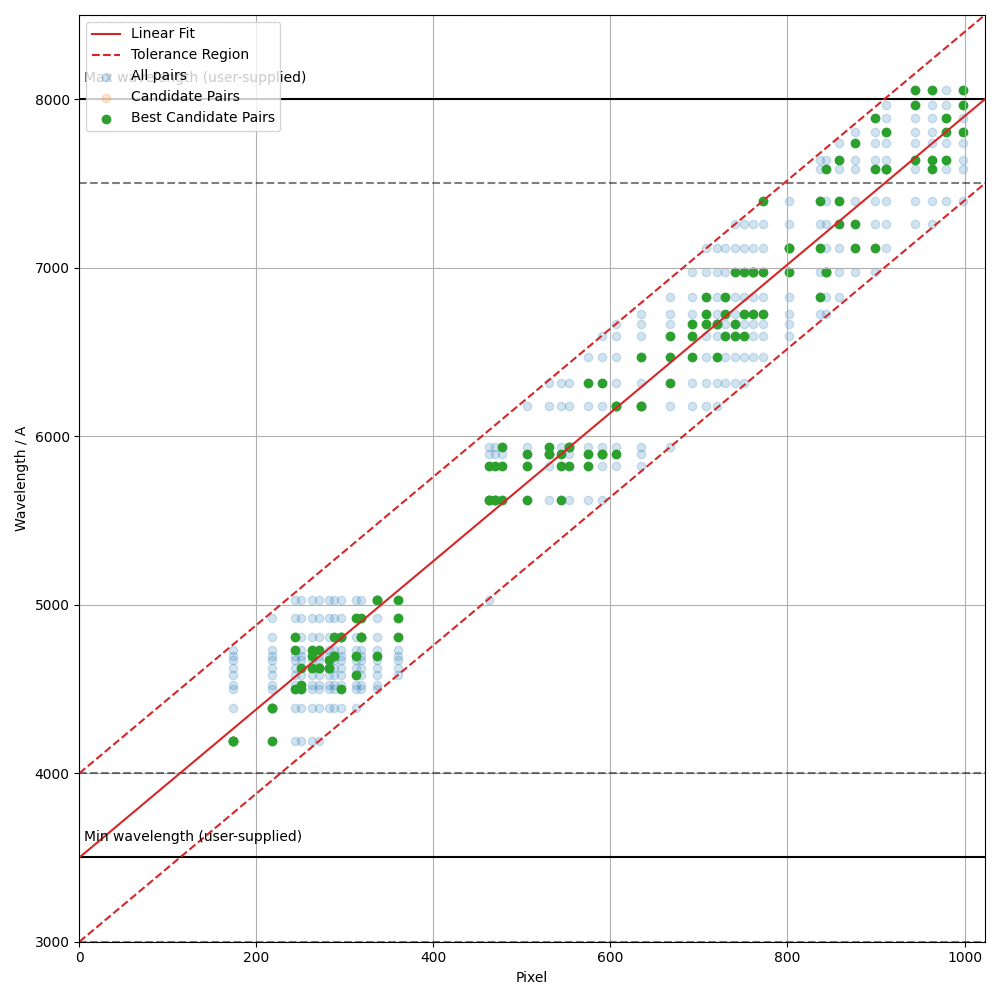
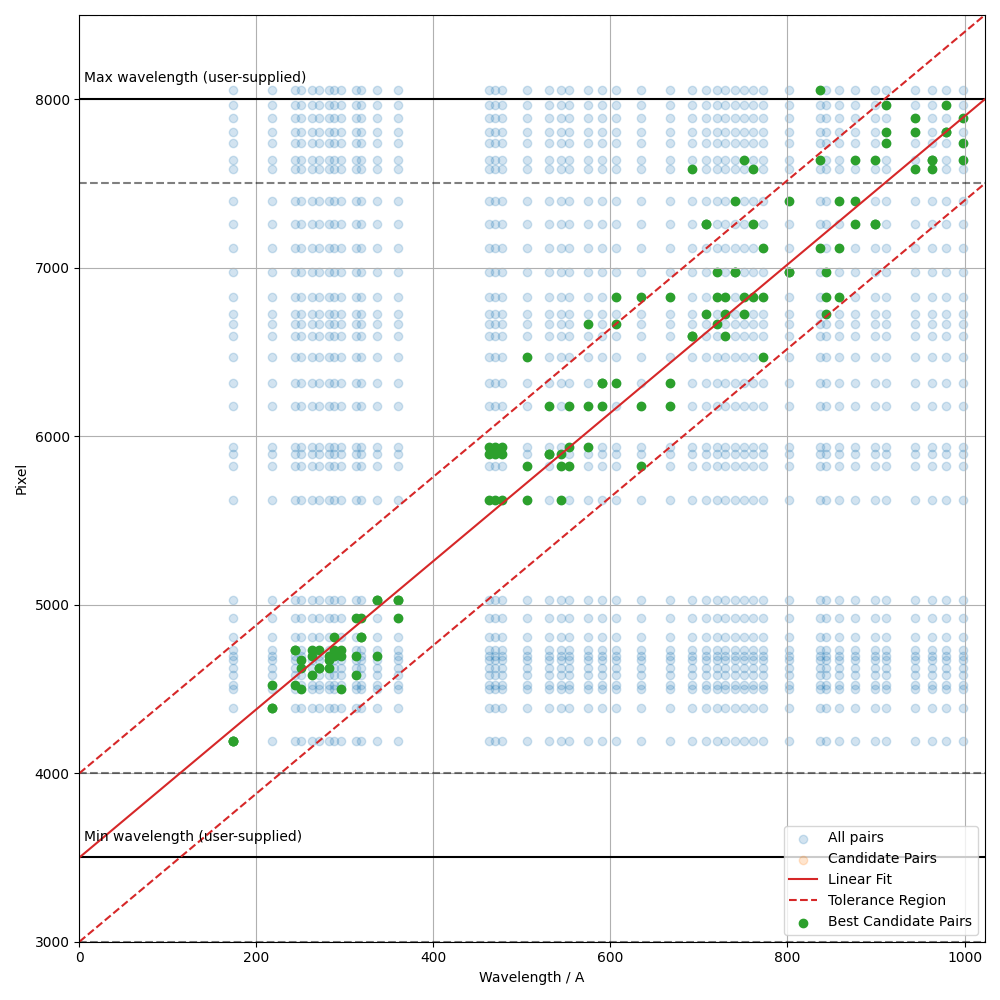
Fixed the outdated atlas syntax in example. pix_to_rawpix is now allowing extrapolation.

diff --git a/rascal/calibrator.py b/rascal/calibrator.py
@@ -1012,7 +1012,8 @@ class Calibrator:
 
         # map the list position to the pixel value
         self.pix_to_rawpix = interpolate.interp1d(
-            self.pixel_list, np.arange(len(self.pixel_list))
+            self.pixel_list,
+            np.arange(len(self.pixel_list), fill_value="extrapolate"),
         )
 
         if seed is not None:

diff --git a/examples/example_lt_sprat_xe_manual_atlas.py b/examples/example_lt_sprat_xe_manual_atlas.py
@@ -103,7 +103,8 @@ atlas.add_user_atlas(
     temperature=temperature,
     relative_humidity=relative_humidity,
 )
-c.add_atlas(atlas, constrain_poly=True)
+c.set_atlas(atlas, candidate_tolerance=5.0)
+
 
 c.do_hough_transform()
 
